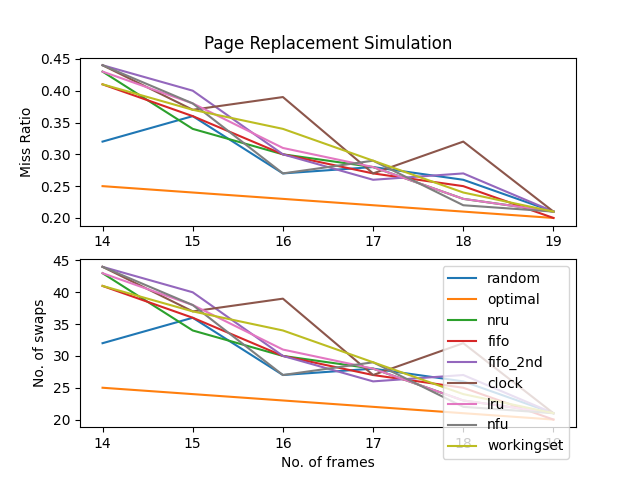
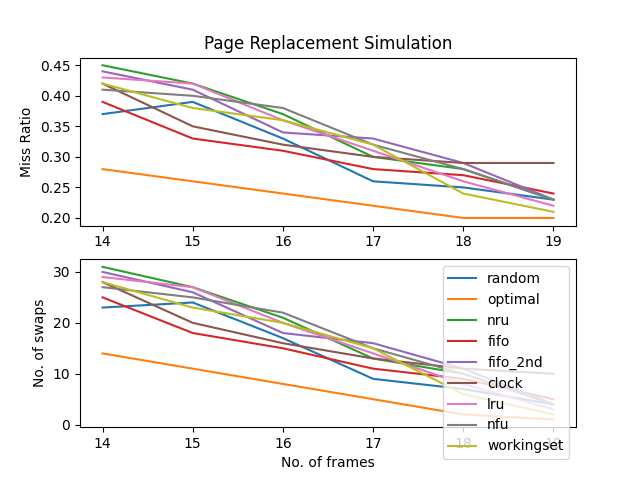
adding aging, wsclock

diff --git a/main.cpp b/main.cpp
@@ -79,14 +79,23 @@ void run_algo(int no_of_pages)
     nfu_pt = fopen("nfu_output.txt", "w");
     FILE *workingset_pt;
     workingset_pt = fopen("workingset_output.txt", "w");
+    FILE *aging_pt;
+    aging_pt = fopen("aging_output.txt", "w");
+    FILE *wsclock_pt;
+    wsclock_pt = fopen("wsclock_output.txt", "w");
     //-----------------------------------------------------
 
     for (i = 14; i < 20; i++)
     {
             int frame_size = i;
+            int swaps=0;
             //----------------------Random----------------------------------
             nm = random(frame_size, pageNoSeq);
-            string coordinates = to_string(i) + "," + to_string((float(nm))/no_of_pages) + "," + to_string(nm) + "\n";
+            if(nm>i)
+            {
+                swaps=nm-i;
+            }
+            string coordinates = to_string(i) + "," + to_string((float(nm))/no_of_pages) + "," + to_string(swaps) + "\n";
             //cout << coordinates;
             fprintf(random_pt, "%s", coordinates.c_str());
             //--------------------------------------------------------------
@@ -94,7 +103,11 @@ void run_algo(int no_of_pages)
             coordinates = "";
             //----------------------Optimal---------------------------------
             nm = optimal(frame_size, pageNoSeq);
-            coordinates = to_string(i) + "," + to_string((float(nm))/no_of_pages) + "," + to_string(nm) + "\n";
+            if(nm>i)
+            {
+                swaps=nm-i;
+            }
+            coordinates = to_string(i) + "," + to_string((float(nm))/no_of_pages) + "," + to_string(swaps) + "\n";
             // cout << coordinates;
             fprintf(optimal_pt, "%s", coordinates.c_str());
             //--------------------------------------------------------------
@@ -102,7 +115,11 @@ void run_algo(int no_of_pages)
             coordinates = "";
             //----------------------NRU-------------------------------------
             nm = NRU(pageNoSeq, frame_size);
-            coordinates = to_string(i) + "," + to_string((float(nm))/no_of_pages) + "," + to_string(nm) + "\n";
+            if(nm>i)
+            {
+                swaps=nm-i;
+            }
+            coordinates = to_string(i) + "," + to_string((float(nm))/no_of_pages) + "," + to_string(swaps) + "\n";
             // cout << coordinates;
             fprintf(nru_pt, "%s", coordinates.c_str());
             //--------------------------------------------------------------
@@ -110,7 +127,11 @@ void run_algo(int no_of_pages)
             coordinates = "";
             //----------------------FIFO------------------------------------
             nm = fifo(pageNoSeq, frame_size);
-            coordinates = to_string(i) + "," + to_string((float(nm))/no_of_pages) + "," + to_string(nm) + "\n";
+            if(nm>i)
+            {
+                swaps=nm-i;
+            }
+            coordinates = to_string(i) + "," + to_string((float(nm))/no_of_pages) + "," + to_string(swaps) + "\n";
             // cout << coordinates;
             fprintf(fifo_pt, "%s", coordinates.c_str());
             //--------------------------------------------------------------
@@ -118,7 +139,11 @@ void run_algo(int no_of_pages)
             coordinates = "";
             //----------------------FIFO second chance----------------------
             nm = fifo_secondchance(pageNoSeq, frame_size);
-            coordinates = to_string(i) + "," + to_string((float(nm))/no_of_pages) + "," + to_string(nm) + "\n";
+            if(nm>i)
+            {
+                swaps=nm-i;
+            }
+            coordinates = to_string(i) + "," + to_string((float(nm))/no_of_pages) + "," + to_string(swaps) + "\n";
             // cout << coordinates;
             fprintf(fifo2nd_pt, "%s", coordinates.c_str());
             //--------------------------------------------------------------
@@ -126,7 +151,11 @@ void run_algo(int no_of_pages)
             coordinates = "";
             //----------------------Clock----------------------
             nm = clock(pageNoSeq, frame_size);
-            coordinates = to_string(i) + "," + to_string((float(nm))/no_of_pages) + "," + to_string(nm) + "\n";
+            if(nm>i)
+            {
+                swaps=nm-i;
+            }
+            coordinates = to_string(i) + "," + to_string((float(nm))/no_of_pages) + "," + to_string(swaps) + "\n";
             // cout << coordinates;
             fprintf(clock_pt, "%s", coordinates.c_str());
             //--------------------------------------------------------------
@@ -135,7 +164,11 @@ void run_algo(int no_of_pages)
             coordinates = "";
             //----------------------LRU-------------------------------------
             nm = LRU(frame_size, pageNoSeq);
-            coordinates = to_string(i) + "," + to_string((float(nm))/no_of_pages) + "," + to_string(nm) + "\n";
+            if(nm>i)
+            {
+                swaps=nm-i;
+            }
+            coordinates = to_string(i) + "," + to_string((float(nm))/no_of_pages) + "," + to_string(swaps) + "\n";
             // cout << coordinates;
             fprintf(lru_pt, "%s", coordinates.c_str());
             //--------------------------------------------------------------
@@ -143,7 +176,11 @@ void run_algo(int no_of_pages)
             coordinates = "";
             //----------------------NFU-------------------------------------
             nm = NFU(pageNoSeq, frame_size);
-            coordinates = to_string(i) + "," + to_string((float(nm))/no_of_pages) + "," + to_string(nm) + "\n";
+            if(nm>i)
+            {
+                swaps=nm-i;
+            }
+            coordinates = to_string(i) + "," + to_string((float(nm))/no_of_pages) + "," + to_string(swaps) + "\n";
             // cout << coordinates;
             fprintf(nfu_pt, "%s", coordinates.c_str());
             //--------------------------------------------------------------
@@ -151,9 +188,35 @@ void run_algo(int no_of_pages)
             coordinates = "";
             //----------------------Working Set-----------------------------
             nm = working_set(frame_size, pageNoSeq);
-            coordinates = to_string(i) + "," + to_string((float(nm))/no_of_pages) + "," + to_string(nm) + "\n";
+            if(nm>i)
+            {
+                swaps=nm-i;
+            }
+            coordinates = to_string(i) + "," + to_string((float(nm))/no_of_pages) + "," + to_string(swaps) + "\n";
             // cout << coordinates;
             fprintf(workingset_pt, "%s", coordinates.c_str());
+            //--------------------------------------------------------------
+            coordinates = "";
+            //----------------------Aging(Approx. LRU)-----------------------------
+            nm = approx_LRU(frame_size, pageNoSeq);
+            if(nm>i)
+            {
+                swaps=nm-i;
+            }
+            coordinates = to_string(i) + "," + to_string((float(nm))/no_of_pages) + "," + to_string(swaps) + "\n";
+            // cout << coordinates;
+            fprintf(aging_pt), "%s", coordinates.c_str());
+            //--------------------------------------------------------------
+            coordinates = "";
+            //----------------------WSClock-----------------------------
+            nm = wsclock(frame_size, pageNoSeq);
+            if(nm>i)
+            {
+                swaps=nm-i;
+            }
+            coordinates = to_string(i) + "," + to_string((float(nm))/no_of_pages) + "," + to_string(swaps) + "\n";
+            // cout << coordinates;
+            fprintf(wsclock_pt, "%s", coordinates.c_str());
             //--------------------------------------------------------------
     }
     //--------------------------------------------------------------------------
@@ -166,6 +229,8 @@ void run_algo(int no_of_pages)
     fclose(lru_pt);
     fclose(nfu_pt);
     fclose(workingset_pt);
+    fclose(aging_pt);
+    fclose(wsclock_pt);
     //--------------------------------------------------------------------------
 
     char filename[] = "graph.py";
